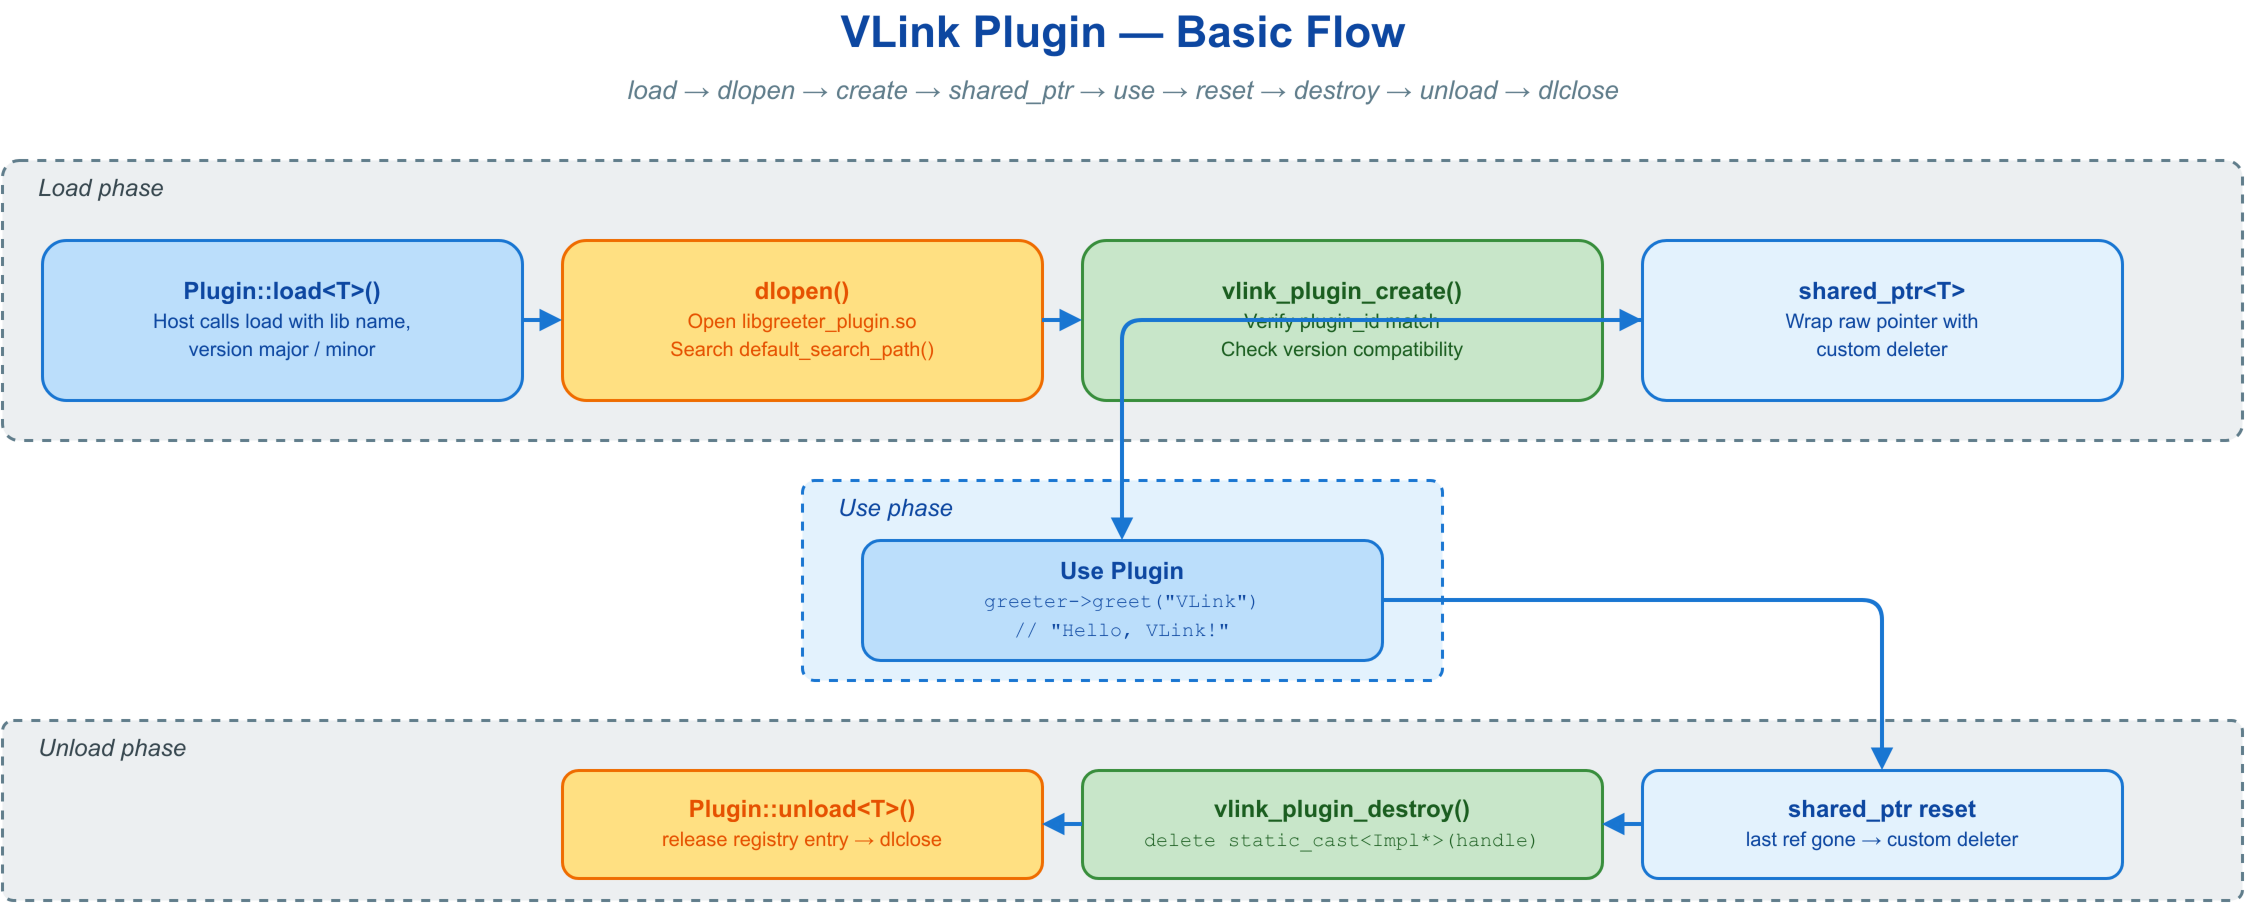
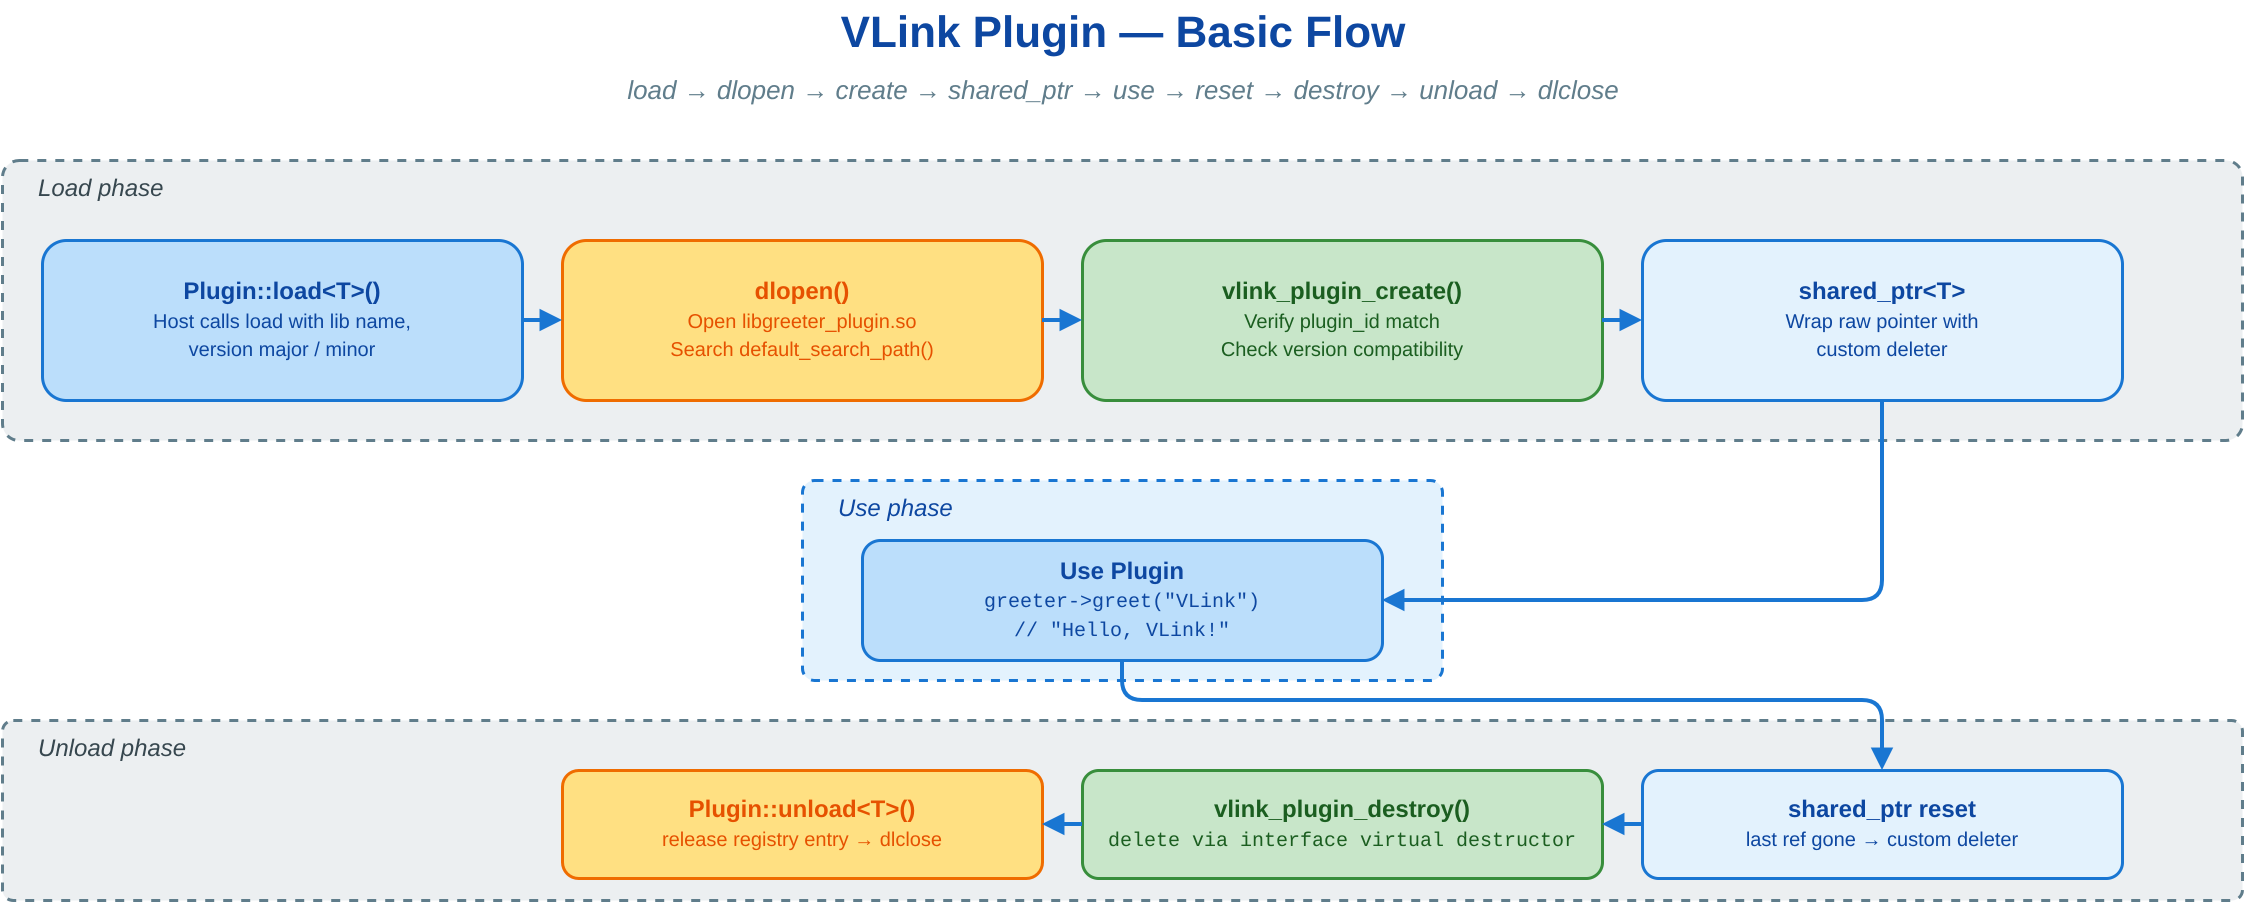
fix(base): preserve plugin interface offsets and virtual destruction
Return registered interface pointers and destroy implementations through
virtual interface destructors, including multiple and virtual
inheritance. Keep plugin regression tests, examples, diagrams, and
contracts aligned.

BREAKING CHANGE: Rebuild plugins whose registered interface has an
address offset using the revised registration macros.

diff --git a/include/vlink/base/plugin.h b/include/vlink/base/plugin.h
@@ -257,6 +257,17 @@ class VLINK_EXPORT Plugin final {
                                       const std::string& target_plugin_id, uint16_t target_version_major,
                                       uint16_t target_version_minor, uint8_t log_level);
 
+  /**
+   * @brief Deletes an instance through its registered interface's virtual destructor.
+   * @details Used by @c VLINK_PLUGIN_DECLARE; registration grants access to protected destructors.
+   * @tparam InterfaceT Registered abstract interface type.
+   * @param instance Interface pointer returned by the plugin factory.
+   */
+  template <class InterfaceT>
+  static void destroy_instance(InterfaceT* instance) {
+    delete instance;
+  }
+
  private:
   Handle load_and_create(const std::string& plugin_id, const std::string& lib_name, uint16_t version_major,
                          uint16_t version_minor, const std::string& dir_name,
@@ -340,12 +351,15 @@ inline std::string Plugin::get_plugin_complex_id(const std::string& lib_name) {
  * Injects a @c static @c constexpr @c get_plugin_id() member that returns the demangled
  * name of @p InterfaceType.  Static assertions enforce that the interface is abstract
  * and exposes a virtual destructor so polymorphic delete across the library boundary
- * is well defined.
+ * is well defined.  Also records @c PluginInterfaceType and grants @c Plugin access to
+ * protected interface destructors.
  *
  * @param InterfaceType  Abstract interface class the plugin implements.
  */
 #define VLINK_PLUGIN_REGISTER(InterfaceType)                                                                         \
  public:                                                                                                             \
+  using PluginInterfaceType = InterfaceType;                                                                         \
+  friend class vlink::Plugin;                                                                                        \
   static constexpr std::string_view get_plugin_id() {                                                                \
     static_assert(std::is_abstract_v<InterfaceType>, "Plugin interface must be abstract class.");                    \
     static_assert(std::has_virtual_destructor_v<InterfaceType>, "Plugin interface must have a virtual destructor."); \
@@ -366,6 +380,8 @@ inline std::string Plugin::get_plugin_complex_id(const std::string& lib_name) {
  */
 #define VLINK_PLUGIN_REGISTER_BY_ID(InterfaceType, PluginID)                                                         \
  public:                                                                                                             \
+  using PluginInterfaceType = InterfaceType;                                                                         \
+  friend class vlink::Plugin;                                                                                        \
   static constexpr std::string_view get_plugin_id() {                                                                \
     static_assert(std::is_abstract_v<InterfaceType>, "Plugin interface must be abstract class.");                    \
     static_assert(std::has_virtual_destructor_v<InterfaceType>, "Plugin interface must have a virtual destructor."); \
@@ -379,8 +395,9 @@ inline std::string Plugin::get_plugin_complex_id(const std::string& lib_name) {
  * @details
  * The construction entry point validates the plugin ID and major/minor version against
  * the caller's expectations via @c Plugin::process_plugin_internal() and returns a new
- * instance of @p ImplementType only when the contract holds.  The destruction entry point
- * deletes the implementation pointer.
+ * instance of @p ImplementType as its registered interface pointer only when the contract holds.
+ * The destruction entry point deletes through that interface's virtual destructor, including
+ * when multiple or virtual inheritance adjusts the interface address.
  *
  * @param ImplementType  Concrete class implementing the abstract interface.
  * @param VersionMajor   Major version exposed by this plugin binary.
@@ -403,7 +420,7 @@ inline std::string Plugin::get_plugin_complex_id(const std::string& lib_name) {
       return nullptr;                                                                                           \
     }                                                                                                           \
                                                                                                                 \
-    return new ImplementType;                                                                                   \
+    return static_cast<typename ImplementType::PluginInterfaceType*>(new ImplementType);                        \
     /*NOLINTEND*/                                                                                               \
   }                                                                                                             \
                                                                                                                 \
@@ -413,7 +430,7 @@ inline std::string Plugin::get_plugin_complex_id(const std::string& lib_name) {
     }                                                                                                           \
                                                                                                                 \
     /*NOLINTBEGIN*/                                                                                             \
-    delete static_cast<ImplementType*>(handle);                                                                 \
+    vlink::Plugin::destroy_instance(static_cast<typename ImplementType::PluginInterfaceType*>(handle));         \
                                                                                                                 \
     return true;                                                                                                \
     /*NOLINTEND*/                                                                                               \

diff --git a/test/base/plugin_test.cc b/test/base/plugin_test.cc
@@ -168,7 +168,61 @@ class AnotherInterface {
   virtual void run() = 0;
 };
 
+static int interface_destroyed = 0;
+static int other_destroyed = 0;
+static int implementation_destroyed = 0;
+static void* expected_interface = nullptr;
+
+class OffsetInterface {
+  VLINK_PLUGIN_REGISTER(OffsetInterface)
+
+ public:
+  virtual int compute() const = 0;
+
+ protected:
+  virtual ~OffsetInterface() { ++interface_destroyed; }
+};
+
+struct OtherBase {
+  virtual ~OtherBase() { ++other_destroyed; }
+};
+
+class OffsetImplementation final : public OtherBase, public virtual OffsetInterface {
+  VLINK_PLUGIN_REGISTER(OffsetInterface)
+
+ public:
+  OffsetImplementation() { expected_interface = static_cast<OffsetInterface*>(this); }
+  ~OffsetImplementation() override { ++implementation_destroyed; }
+  int compute() const override { return 42; }
+};
+
+#undef VLINK_PLUGIN_CREATE_FUNC_NAME
+#undef VLINK_PLUGIN_DESTROY_FUNC_NAME
+#define VLINK_PLUGIN_CREATE_FUNC_NAME test_offset_plugin_create
+#define VLINK_PLUGIN_DESTROY_FUNC_NAME test_offset_plugin_destroy
+VLINK_PLUGIN_DECLARE(OffsetImplementation, 1, 0)
+#undef VLINK_PLUGIN_CREATE_FUNC_NAME
+#undef VLINK_PLUGIN_DESTROY_FUNC_NAME
+#define VLINK_PLUGIN_CREATE_FUNC_NAME vlink_plugin_create
+#define VLINK_PLUGIN_DESTROY_FUNC_NAME vlink_plugin_destroy
+
 TEST_SUITE("base-Plugin") {
+  TEST_CASE("plugin factory and destroy preserve a virtual interface at a nonzero offset") {
+    interface_destroyed = 0;
+    other_destroyed = 0;
+    implementation_destroyed = 0;
+    auto* handle = test_offset_plugin_create("offset", OffsetInterface::get_plugin_id().data(), 1, 0, Logger::kError);
+    REQUIRE(handle != nullptr);
+    CHECK_EQ(handle, expected_interface);
+    if (handle == expected_interface) {
+      CHECK_EQ(static_cast<OffsetInterface*>(handle)->compute(), 42);
+    }
+    CHECK(test_offset_plugin_destroy(handle));
+    CHECK_EQ(interface_destroyed, 1);
+    CHECK_EQ(other_destroyed, 1);
+    CHECK_EQ(implementation_destroyed, 1);
+  }
+
   TEST_CASE("plugin can be constructed and destroyed without crash") {
     Plugin plugin;
     (void)plugin;

diff --git a/examples/plugin/plugin_basic/greeter_plugin.cc b/examples/plugin/plugin_basic/greeter_plugin.cc
@@ -36,7 +36,7 @@
 //   3. VLINK_PLUGIN_DECLARE exports the C ABI entry points the loader needs:
 //        - vlink_plugin_create  -> validates plugin_id/version, then creates
 //                                  GreeterImpl
-//        - vlink_plugin_destroy -> deletes the implementation pointer
+//        - vlink_plugin_destroy -> deletes through the interface's virtual destructor
 //      The create call compares declared (1, 0) with the plugin_id and version
 //      requested by Plugin::load<T>(); mismatch returns nullptr.
 // =============================================================================

diff --git a/CHANGELOG.md b/CHANGELOG.md
@@ -44,6 +44,7 @@
 - **公共通信接口**：修复 Field 去重及连接回调取消行为。
 - **URL 插件赋值**：修复复制赋值后仍保留旧后端配置的问题。
 - **基础任务调度**：修复图依赖传播、移动参数及返回类型推导、协程生命周期与 deferred future 等待。
+- **基础库**：修复并发与生命周期问题，以及计时、终端输出、插件多继承和智能指针识别错误；十六进制输出统一大写。
 - **定时器与日志**：修复定时器计数、回调状态与生命周期；修复 handler/回溯重入、退出期 TLS、首次 Trace、运行期开启文件通道及控制台 flush，磁盘故障后仍可控制台重放。日志宏内联调用的内部接口有变化，应用与日志插件需重新编译。
 - **进程与系统工具**：修复进程参数与回调、键盘与信号处理及退出顺序，以及时区、环境变量、DDS 地址和 macOS 信号量问题。
 - **Python 稳定性**：修复浅视图与空数据深拷贝的生命周期问题，以及满队列投递、日志回调并发替换、Process 重启、Timer 回调释放的死锁风险。

diff --git a/doc/13-integration.md b/doc/13-integration.md
@@ -665,6 +665,8 @@ plugin.unload<vlink::LoggerPluginInterface>("my_logger");
 4. CMake 编译为 `SHARED` 库；
 5. 宿主以 `Plugin::load<Iface>()` 加载。
 
+构造入口返回注册接口的地址，析构入口通过该接口的虚析构释放实现对象，支持多重继承和虚继承。接口析构可为 `protected`。存在接口地址偏移的旧插件须用当前头文件重新构建。
+
 以一个自定义监控插件为例。
 
 **monitor_plugin.h（接口）**
